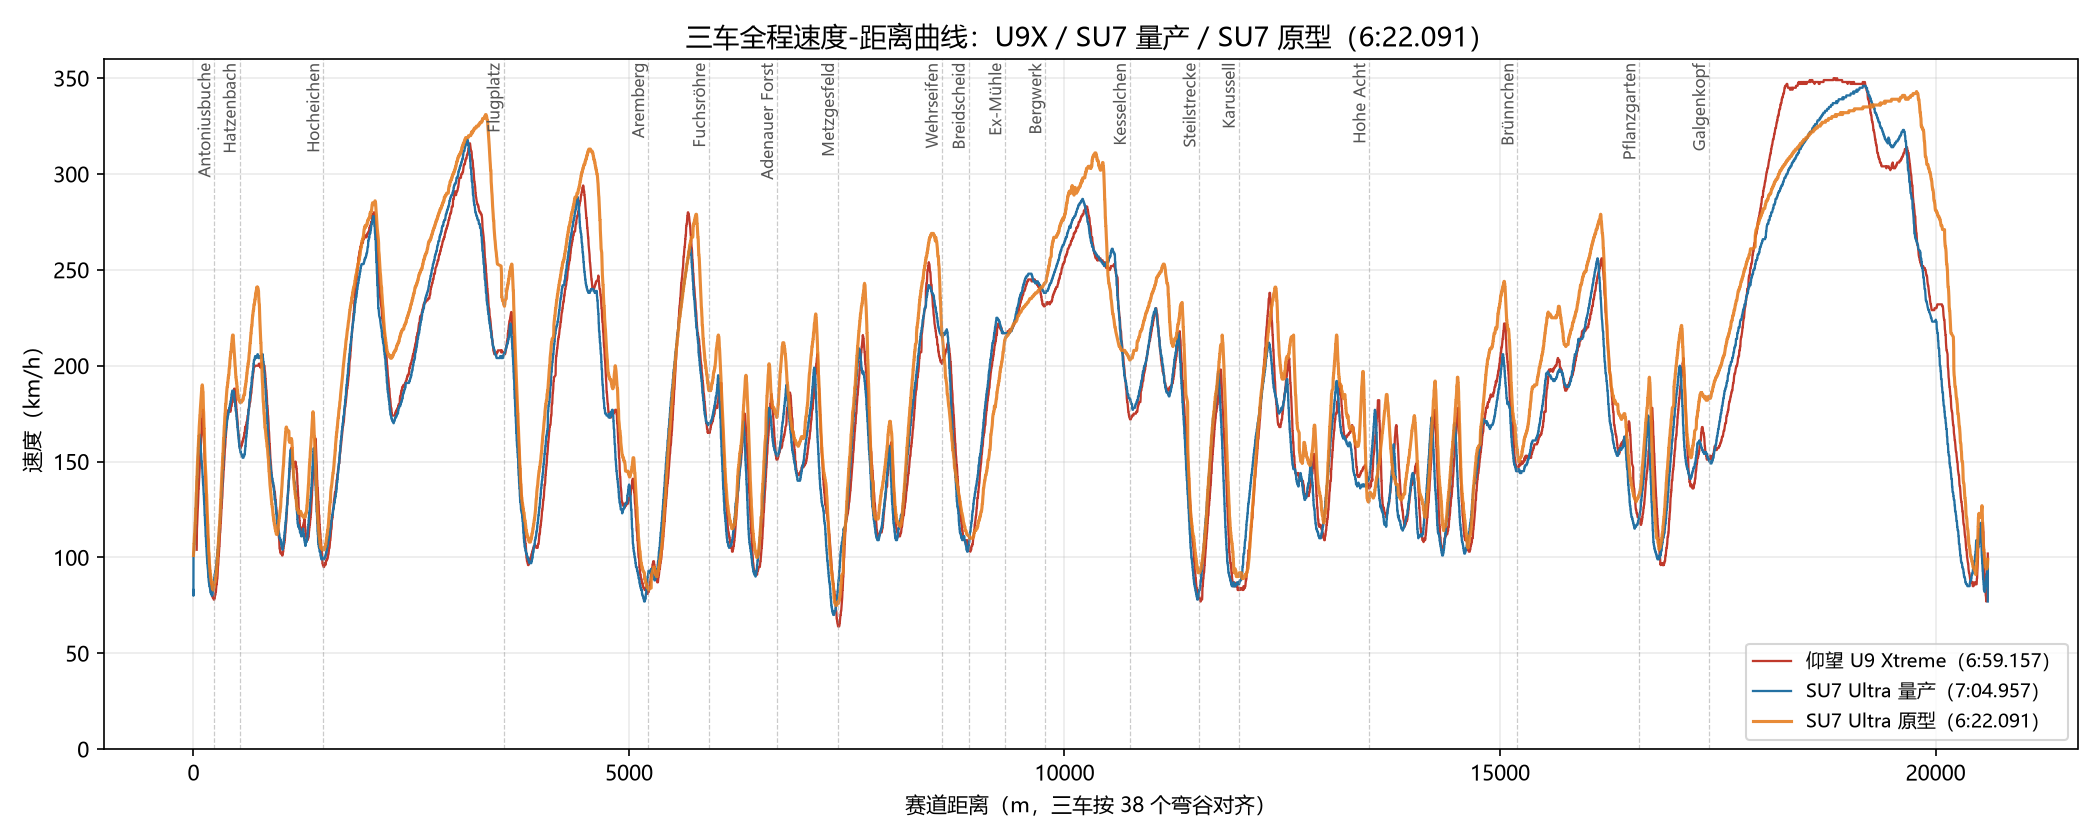
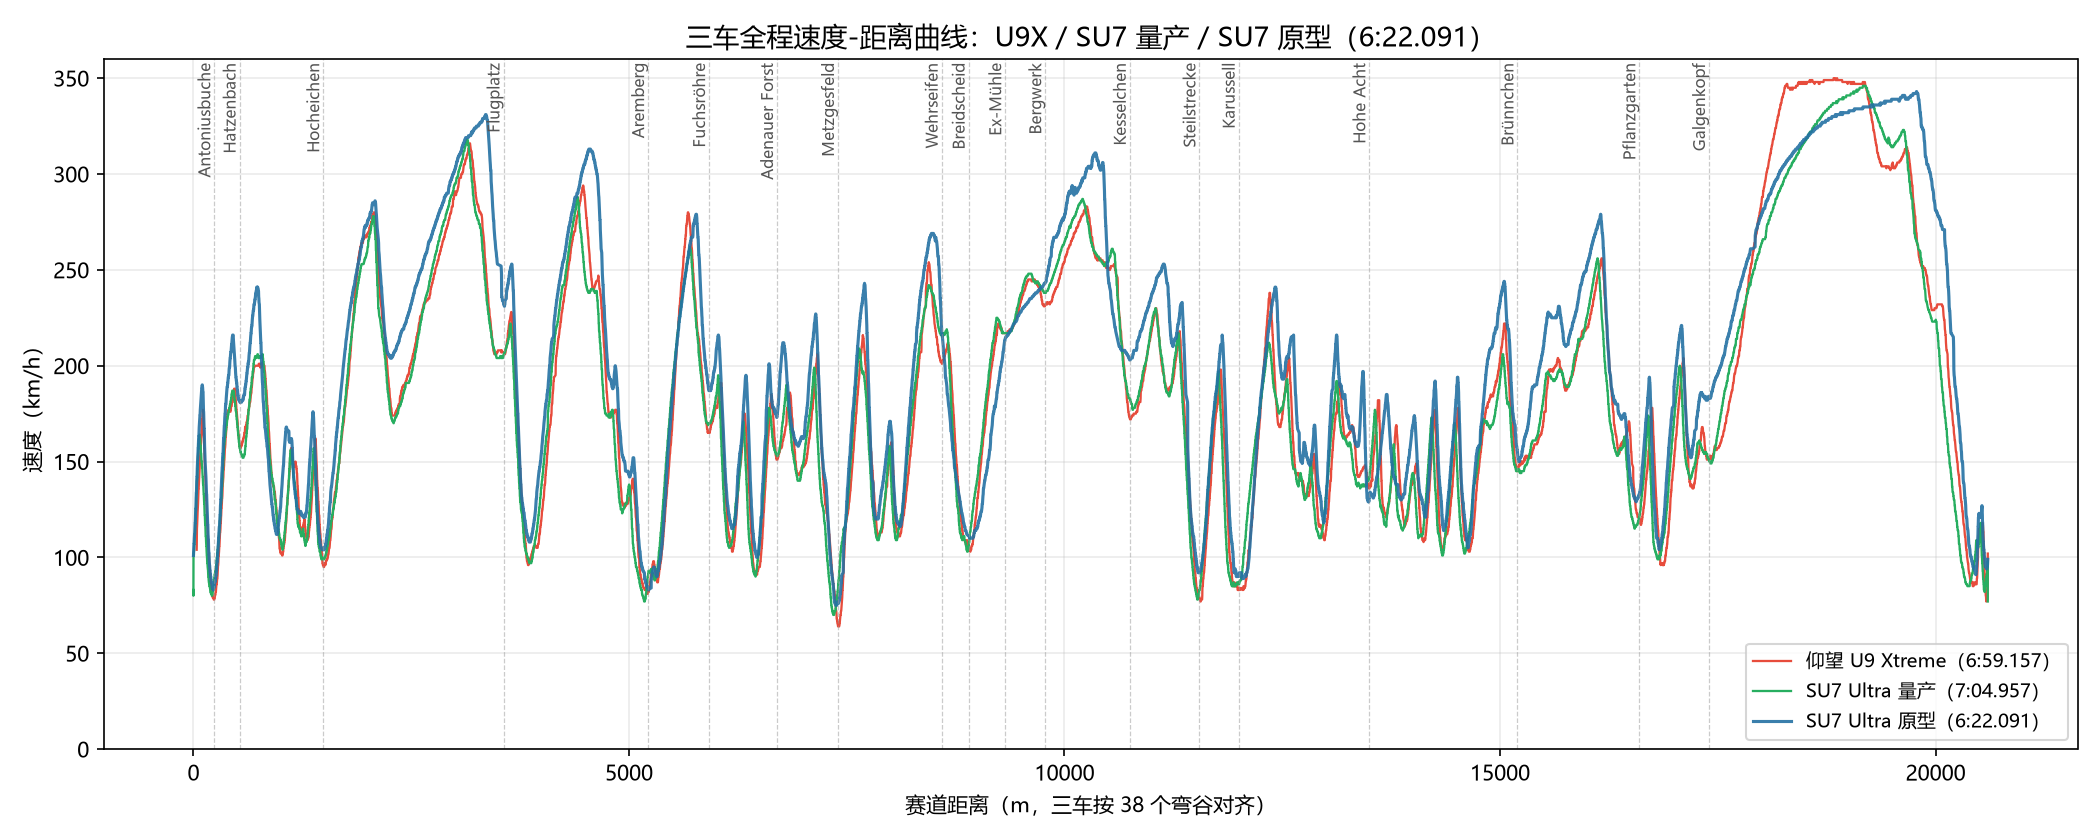
三车曲线改红绿蓝配色；44车图6:22标注避开标题重叠；'生'表述改为空力+轮胎压力致功率使不出来

diff --git a/publish/scripts/gen_speed_profiles.py b/publish/scripts/gen_speed_profiles.py
@@ -62,9 +62,9 @@ vpi = _v_p
 
 # ---------- 画图 ----------
 fig, ax = plt.subplots(figsize=(14, 5.6), dpi=150)
-ax.plot(s_u, v_u, color='#c0392b', lw=1.1, label='仰望 U9 Xtreme（6:59.157）')
-ax.plot(s_s, v_s, color='#2471a3', lw=1.1, label='SU7 Ultra 量产（7:04.957）')
-ax.plot(s_p, vpi, color='#e67e22', lw=1.5, alpha=0.9, label='SU7 Ultra 原型（6:22.091）')
+ax.plot(s_u, v_u, color='#e74c3c', lw=1.1, label='仰望 U9 Xtreme（6:59.157）')
+ax.plot(s_s, v_s, color='#27ae60', lw=1.1, label='SU7 Ultra 量产（7:04.957）')
+ax.plot(s_p, vpi, color='#2471a3', lw=1.5, alpha=0.9, label='SU7 Ultra 原型（6:22.091）')
 
 landmarks = [
     (240, 'Antoniusbuche'), (530, 'Hatzenbach'), (1490, 'Hocheichen'),
